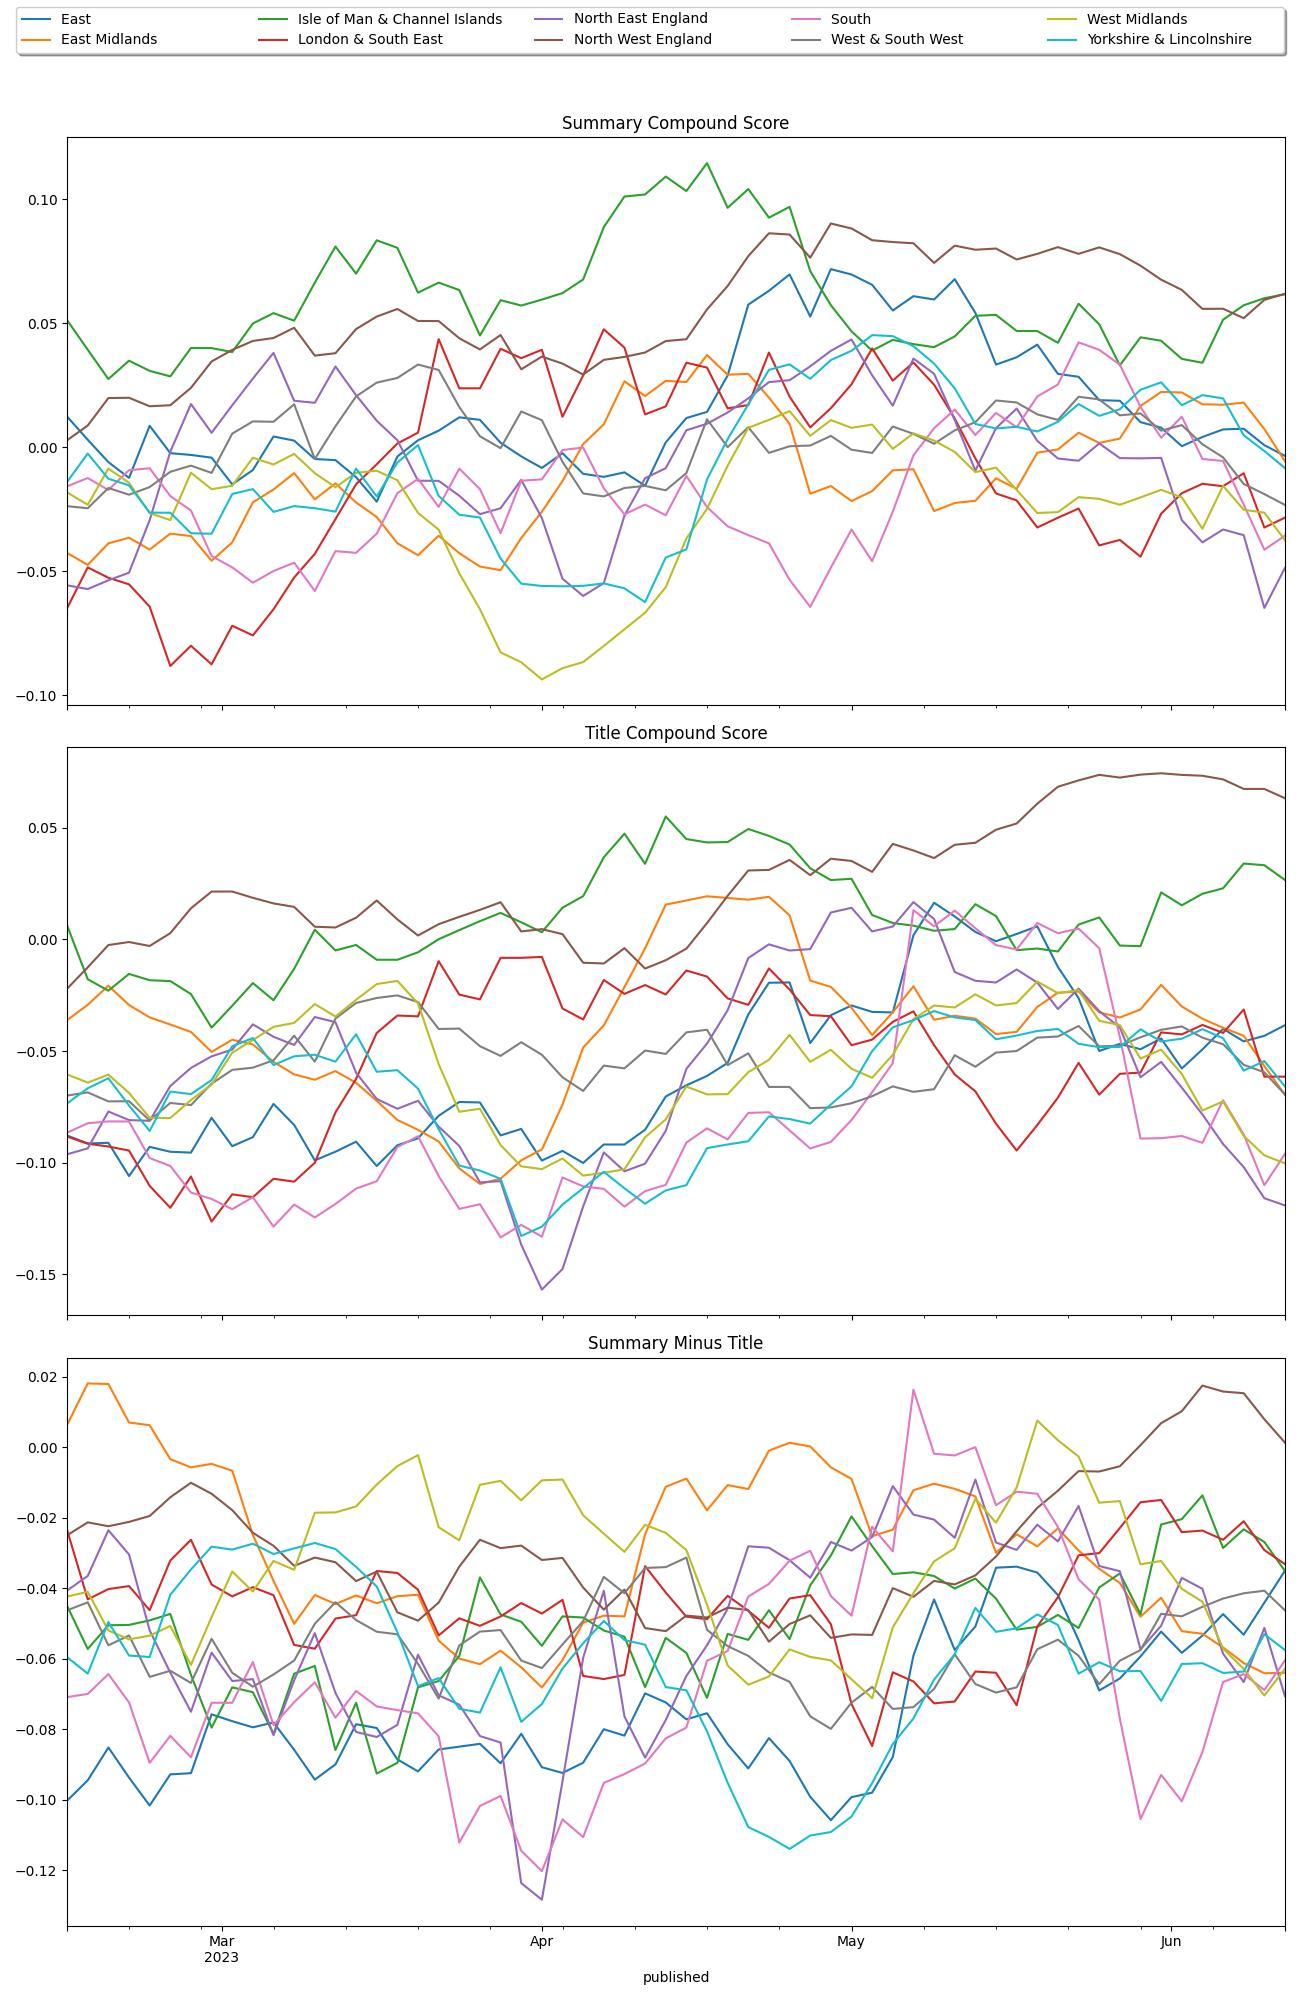
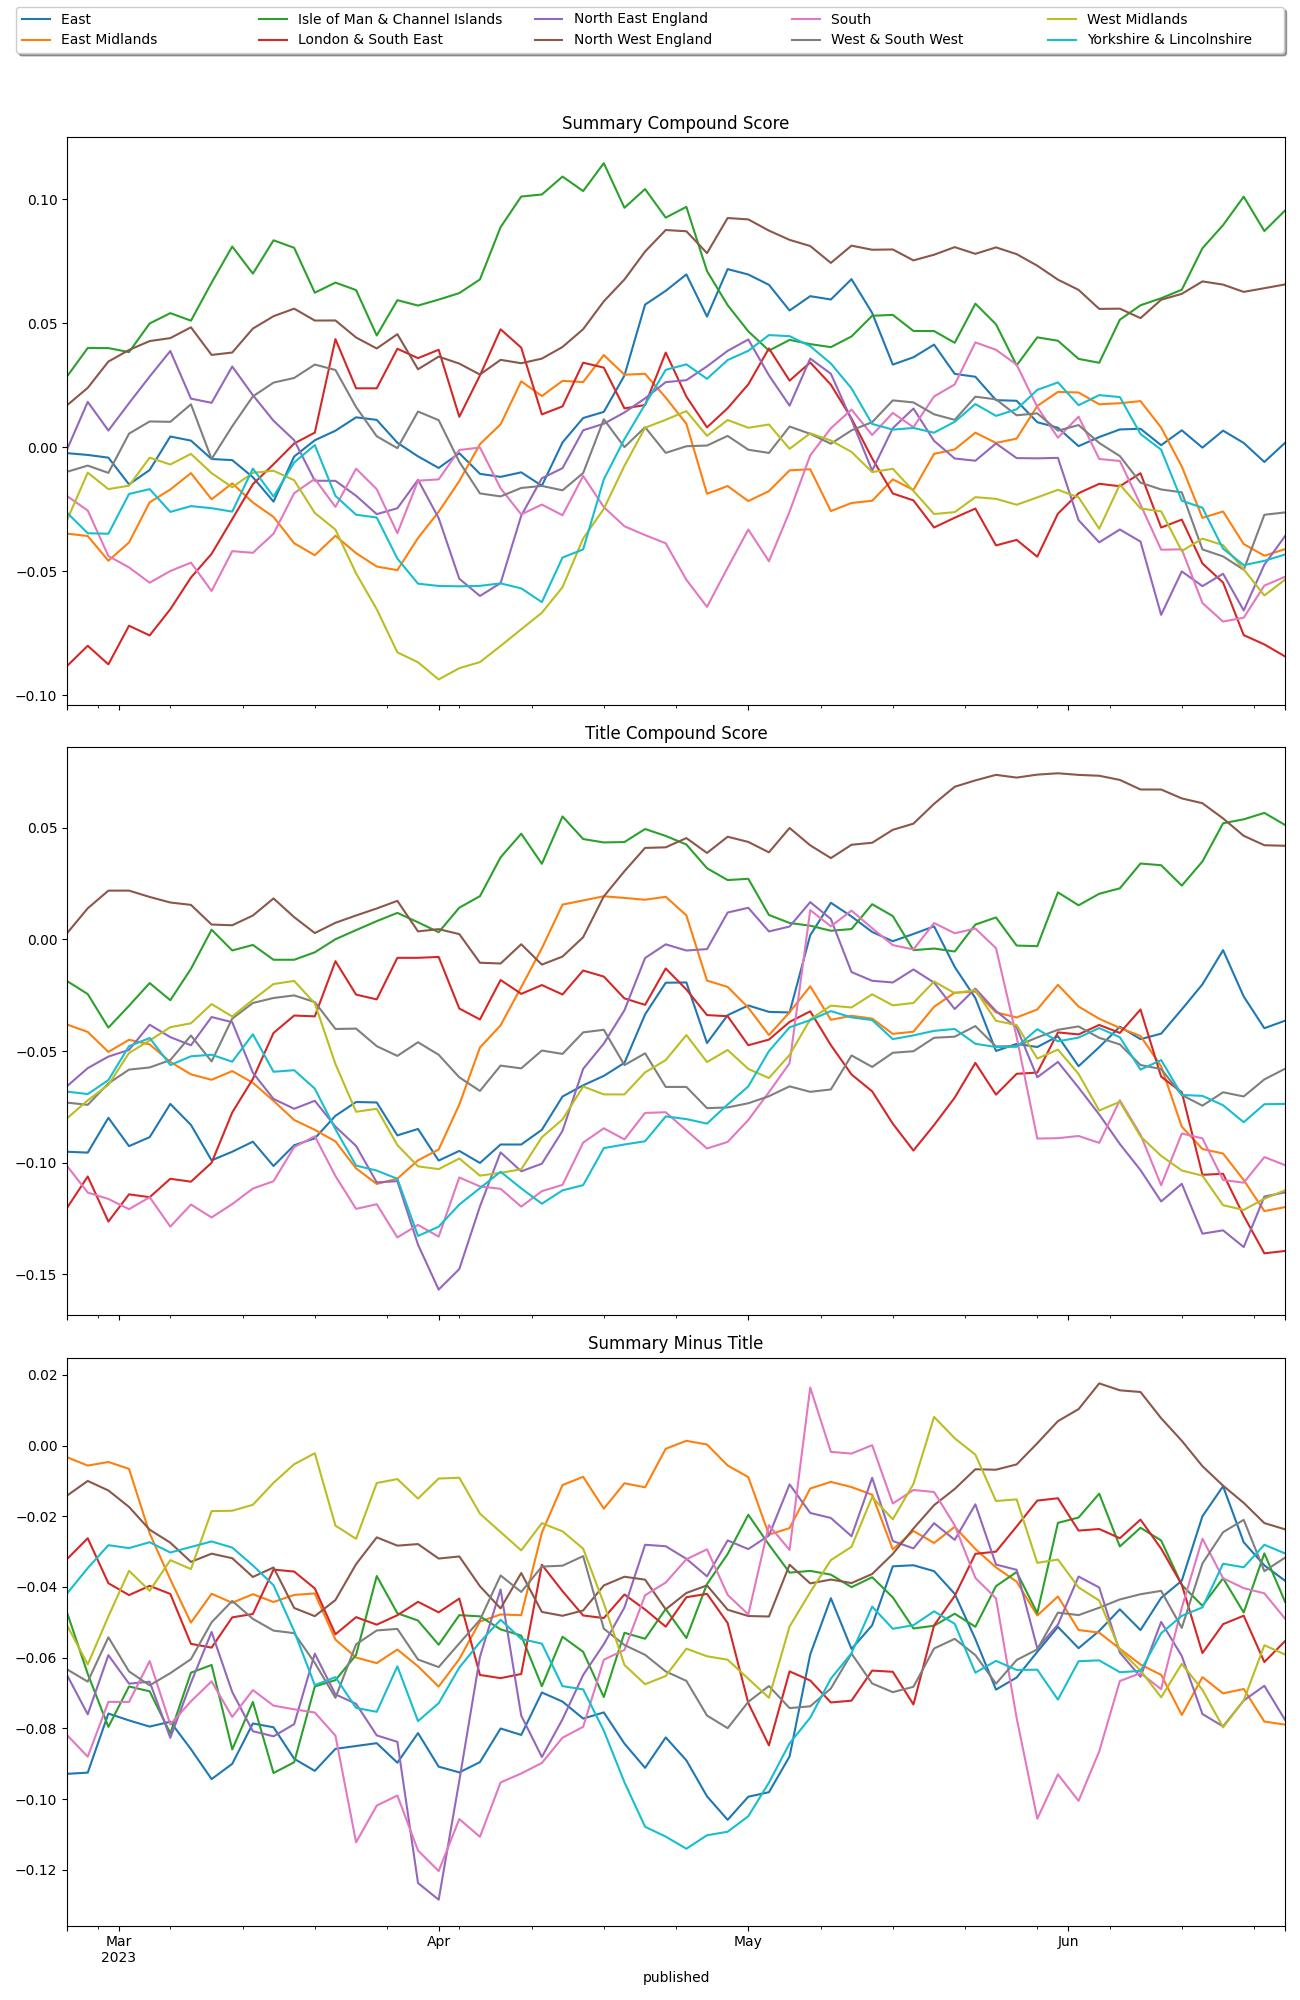
ran manually

diff --git a/reports/complete/latest.md b/reports/complete/latest.md
@@ -1,12 +1,12 @@
-| region                        | published                  | summary                                                                                             | title                                               | url                                            |   summary_compound_score |   title_compound_score |   summary_minus_title |
-|:------------------------------|:---------------------------|:----------------------------------------------------------------------------------------------------|:----------------------------------------------------|:-----------------------------------------------|-------------------------:|-----------------------:|----------------------:|
-| East                          | 2023-06-13 05:59:30        | The council had hoped to spend money on upgrading a junction near an innovation centre.             | Tech centre's £900k junction upgrade is rejected    | /news/uk-england-norfolk-65883293              |                   0.6369 |                -0.5106 |               -1.1475 |
-| East Midlands                 | 2023-06-13 09:22:31.642000 | nan                                                                                                 | Police appeal for witnesses                         | nan                                            |                   0      |                 0      |                0      |
-| Isle of Man & Channel Islands | 2023-06-13 08:52:25        | A special meeting of the Association of Guernsey Charities was held on Monday night.                | Charities criticise States over work with sector    | /news/world-europe-guernsey-65887838           |                   0.7096 |                 0.0772 |               -0.6324 |
-| London & South East           | 2023-06-13 09:03:02.922000 | South East Water says the hot weather is putting pressure on supplies in Kent and Sussex.           | People told to only use water for essential use     | /news/articles/cz78yrwg55no                    |                  -0.296  |                 0      |                0.296  |
-| North East England            | 2023-06-13 08:07:59        | Newcastle Falcons sign Argentina prop Eduardo Bello on a two-year deal from Saracens.               | Newcastle sign Argentina prop Bello from Saracens   | /sport/rugby-union/65888420                    |                   0      |                 0      |                0      |
-| North West England            | 2023-06-13 09:03:45.475000 |                                                                                                     | 'I'll never get a break here'                       | /sport/articles/cv2rnx4mve7o                   |                   0      |                 0      |                0      |
-| South                         | 2023-06-13 07:41:36        | The woman, who was in her 50s, was found by police at a property in Newport on the Isle of Wight.   | Murder arrest after woman found dead at flat        | /news/uk-england-hampshire-65887393            |                   0      |                -0.9081 |               -0.9081 |
-| West & South West             | 2023-06-13 08:39:30.524000 | Lifeboats and vessels including a Royal Navy ship help search for the woman on an inflatable kayak. | Kayaker rescued off Cornwall after four-hour search | /news/articles/ce9qz0mnv4go                    |                   0.4019 |                 0.4215 |                0.0196 |
-| West Midlands                 | 2023-06-13 09:24:40        | Highlights of the show included a flypast from the Red Arrows and a tribute to The Dambusters Raid. | Thousands gather to watch air show spectacle        | /news/uk-england-shropshire-65889595           |                   0      |                 0      |                0      |
-| Yorkshire & Lincolnshire      | 2023-06-13 09:06:42        | North Yorkshire councillor Mike Jordan says his decision was linked to national party policies.     | Conservatives lose majority after councillor quits  | /news/uk-england-york-north-yorkshire-65887884 |                   0.4019 |                -0.4019 |               -0.8038 |
+| region                        | published           | summary                                                                                                                         | title                                               | url                                          |   summary_compound_score |   title_compound_score |   summary_minus_title |
+|:------------------------------|:--------------------|:--------------------------------------------------------------------------------------------------------------------------------|:----------------------------------------------------|:---------------------------------------------|-------------------------:|-----------------------:|----------------------:|
+| East                          | 2023-06-22 08:29:08 | Reading begin their first season in League One since 2002 against Peterborough, while Wigan go to Derby on opening day.         | Reading host Peterborough on League One opening day | /sport/football/65973491                     |                   0      |                 0      |                0      |
+| East Midlands                 | 2023-06-22 08:29:08 | Reading begin their first season in League One since 2002 against Peterborough, while Wigan go to Derby on opening day.         | Reading host Peterborough on League One opening day | /sport/football/65973491                     |                   0      |                 0      |                0      |
+| Isle of Man & Channel Islands | 2023-06-22 09:12:12 | The US transport aircraft is taking specialist kit to the North Atlantic to help in the search.                                 | Titanic sub search team to pick up Jersey kit       | /news/world-europe-jersey-65982967           |                   0.4019 |                 0      |               -0.4019 |
+| London & South East           | 2023-06-22 08:19:45 | Wrexham host MK Dons on the opening weekend of the League Two season, while Notts County face Sutton on their EFL return.       | Wrexham host MK Dons on League Two opening day      | /sport/football/65972326                     |                   0      |                 0      |                0      |
+| North East England            | 2023-06-22 08:24:58 | Newly promoted Sheffield Wednesday welcome relegated Southampton to Hillsborough for the EFL season opener on Friday, 4 August. | Sheff Wed host Saints to start Championship season  | /sport/football/65982803                     |                   0.7003 |                 0.4404 |               -0.2599 |
+| North West England            | 2023-06-22 09:27:06 | Blackburn Rovers sign Iceland forward Arnor Sigurdsson on a one-year deal from Russian top-flight club CSKA Moscow.             | Blackburn sign CSKA Moscow winger Sigurdsson        | /sport/football/65982812                     |                   0      |                 0      |                0      |
+| South                         | 2023-06-22 08:41:21 | Ethan Goddard, 18, died along with fellow passengers Elliot Pullen, 17, and Daniel Hancock, 18.                                 | Tribute to third teenage victim of car crash        | /news/uk-england-oxfordshire-65983395        |                  -0.5574 |                -0.5859 |               -0.0285 |
+| West & South West             | 2023-06-22 09:23:22 | Tyrone man Gareth Turnbull is providing fridges and freezers for the biggest stars this weekend.                                | Is this the coolest man at Glastonbury Festival?    | /news/uk-northern-ireland-65982715           |                  -0.0258 |                 0.4939 |                0.5197 |
+| West Midlands                 | 2023-06-22 09:12:59 | The burst on Wednesday has damaged roads which could be closed all of Thursday, a council says.                                 | Warning of ongoing disruption from burst pipe       | /news/uk-england-hereford-worcester-65983693 |                  -0.4404 |                -0.5994 |               -0.159  |
+| Yorkshire & Lincolnshire      | 2023-06-22 09:14:23 | The collision, involving a car, happened on Wednesday on Thornton Road in Bradford, police say.                                 | Two males seriously hurt in motorbike crash         | /news/uk-england-leeds-65983442              |                  -0.3612 |                -0.7783 |               -0.4171 |
